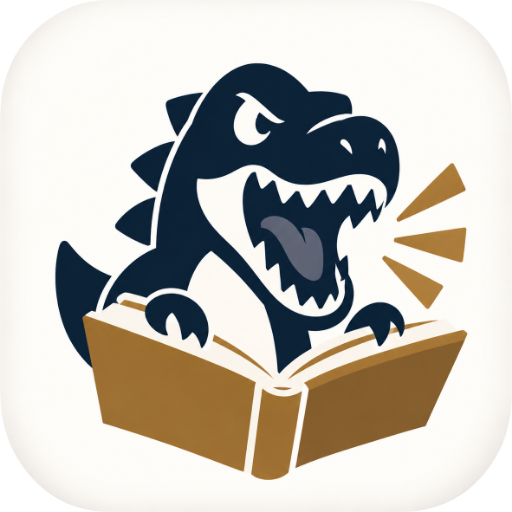
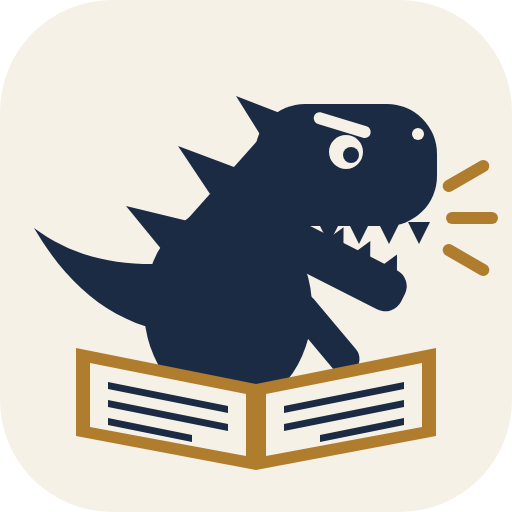
アプリのアイコン（恐竜）をピクトグラム風に描き直す
AI 生成の絵（docs/brand/logo-tlex.png）だったロゴを、案内標識のように面だけで
描いた SVG（docs/brand/logo-tlex.svg）に置き換える。本を開いて吠える
ティラノサウルスという意匠は残し、色は生成りの地色・紺の恐竜・茶の本の 3 つ。

- render-icons.mjs は SVG から PNG 一式（192/512・Apple・maskable）を作る
  形にし、地色の検出や角丸の切り出しをなくして簡単にする
- 絵柄が単純になり、PNG の大きさは合わせて約 640KB から約 72KB になる
- 古いアイコンが残らないよう、キャッシュ避けの版を v5、サービスワーカーを v9 に上げる
- 元の絵（logo-tlex.png）は参考として残す

Claude-Session: https://claude.ai/code/session_01GDzWoRZELGBPjA5ETCKbwH

diff --git a/apps/web/src/App.tsx b/apps/web/src/App.tsx
@@ -90,7 +90,7 @@ export default function App() {
     <div className="flex min-h-screen">
       <aside className="sidebar-surface sticky top-0 hidden h-screen w-[236px] shrink-0 flex-col overflow-hidden border-r border-[var(--hairline)] md:flex">
         <div className="flex shrink-0 items-center gap-3 px-4 pb-3 pt-5">
-          <img src="/icon-192.png?v=4" alt="" className="h-9 w-9 rounded-[10px] shadow-[0_2px_6px_rgba(16,32,48,0.14)]" />
+          <img src="/icon-192.png?v=5" alt="" className="h-9 w-9 rounded-[10px] shadow-[0_2px_6px_rgba(16,32,48,0.14)]" />
           <div className="min-w-0">
             <div className="truncate text-[15px] font-semibold tracking-[-0.02em]">T-Lex</div>
             <div className="truncate whitespace-nowrap text-[11px] text-slate-500">連絡・事件・期日をひとつに</div>

diff --git a/apps/web/src/pages/Login.tsx b/apps/web/src/pages/Login.tsx
@@ -60,7 +60,7 @@ export default function Login() {
       />
       <div className="card relative w-full max-w-[380px] space-y-6 p-8 shadow-[var(--shadow-float)]">
         <div className="flex flex-col items-center gap-3 text-center">
-          <img src="/icon-192.png?v=4" alt="" className="h-16 w-16 rounded-[16px] shadow-[0_4px_14px_rgba(0,0,0,0.16)]" />
+          <img src="/icon-192.png?v=5" alt="" className="h-16 w-16 rounded-[16px] shadow-[0_4px_14px_rgba(0,0,0,0.16)]" />
           <div>
             <h1 className="text-[22px] font-semibold tracking-[-0.02em]">T-Lex</h1>
             <p className="mt-0.5 text-xs text-slate-500">登大路総合法律事務所</p>

diff --git a/apps/web/index.html b/apps/web/index.html
@@ -11,8 +11,8 @@
     <meta name="apple-mobile-web-app-title" content="T-Lex" />
     <meta name="mobile-web-app-capable" content="yes" />
     <link rel="manifest" href="/manifest.json" />
-    <link rel="icon" href="/icon-192.png?v=4" type="image/png" />
-    <link rel="apple-touch-icon" sizes="180x180" href="/apple-touch-icon.png?v=4" />
+    <link rel="icon" href="/icon-192.png?v=5" type="image/png" />
+    <link rel="apple-touch-icon" sizes="180x180" href="/apple-touch-icon.png?v=5" />
     <title>T-Lex</title>
     <script src="/theme-boot.js?v=1"></script>
   </head>

diff --git a/apps/web/public/sw.js b/apps/web/public/sw.js
@@ -1,5 +1,5 @@
 /* 最小限のサービスワーカー。画面の骨格だけをキャッシュし、API は常にネットワークへ */
-const VERSION = 'lcm-shell-v8';
+const VERSION = 'lcm-shell-v9';
 const SHELL = ['/', '/manifest.json', '/theme-boot.js?v=1', '/icon-192.png'];
 
 self.addEventListener('install', (event) => {
